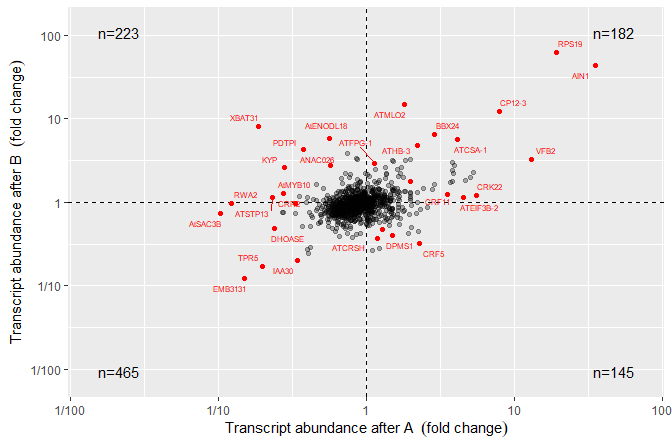
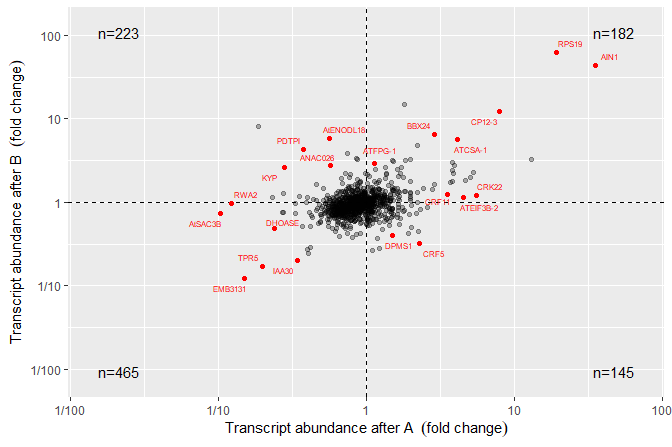
Update README.md again

diff --git a/README.md b/README.md
@@ -5,12 +5,8 @@
 
 [![cran
 version](https://www.r-pkg.org/badges/version/ggpmisc)](https://cran.r-project.org/package=ggpmisc)
-
-<!-- badges: start -->
-
 [![R build
 status](https://github.com/aphalo/ggpmisc/workflows/R-CMD-check/badge.svg)](https://github.com/aphalo/ggpmisc/actions)
-<!-- badges: end -->
 
 ## Purpose
 
@@ -218,13 +214,11 @@ ggplot(quadrant_example.df, aes(logFC.x, logFC.y)) +
   geom_point(alpha = 0.3) +
   geom_quadrant_lines() +
   stat_quadrant_counts() +
-  stat_dens2d_filter(color = "red", keep.fraction = 0.03) +
-  stat_dens2d_labels(aes(label = gene), keep.fraction = 0.03, 
+  stat_dens2d_filter(color = "red", keep.fraction = 0.02) +
+  stat_dens2d_labels(aes(label = gene), keep.fraction = 0.02, 
                      geom = "text_repel", size = 2, colour = "red") +
   scale_x_logFC(name = "Transcript abundance after A%unit") +
   scale_y_logFC(name = "Transcript abundance after B%unit")
-#> Warning: ggrepel: 2 unlabeled data points (too many overlaps). Consider
-#> increasing max.overlaps
 ```
 
 ![](man/figures/README-unnamed-chunk-1-1.png)<!-- -->
@@ -237,7 +231,7 @@ Installation of the most recent stable version from CRAN:
 install.packages("ggpmisc")
 ```
 
-Installation of the current unstable version from Bitbucket:
+Installation of the current unstable version from GitHub:
 
 ``` r
 # install.packages("devtools")
